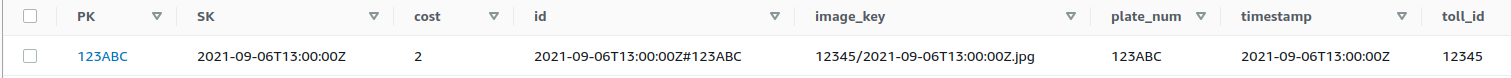
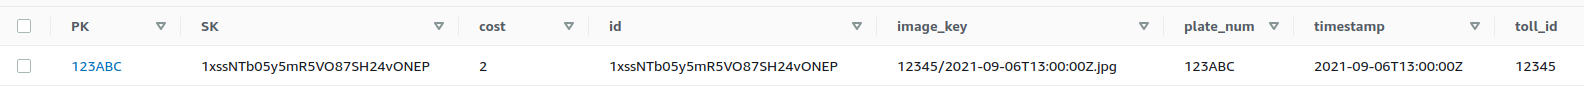
reduce firehose permissions and update readme

diff --git a/README.md b/README.md
@@ -37,7 +37,7 @@ Then, the REST API can be queried like `endpoint/tolls/ABC123`, where `ABC123` i
 {
     "tolls": [
         {
-            "id": "2021-09-06T13:00:00Z#123ABC",
+            "id": "1xssNTb05y5mR5VO87SH24vONEP",
             "timestamp": "2021-09-06T13:00:00Z",
             "plateNumber": "123ABC",
             "tollId": "12345",
